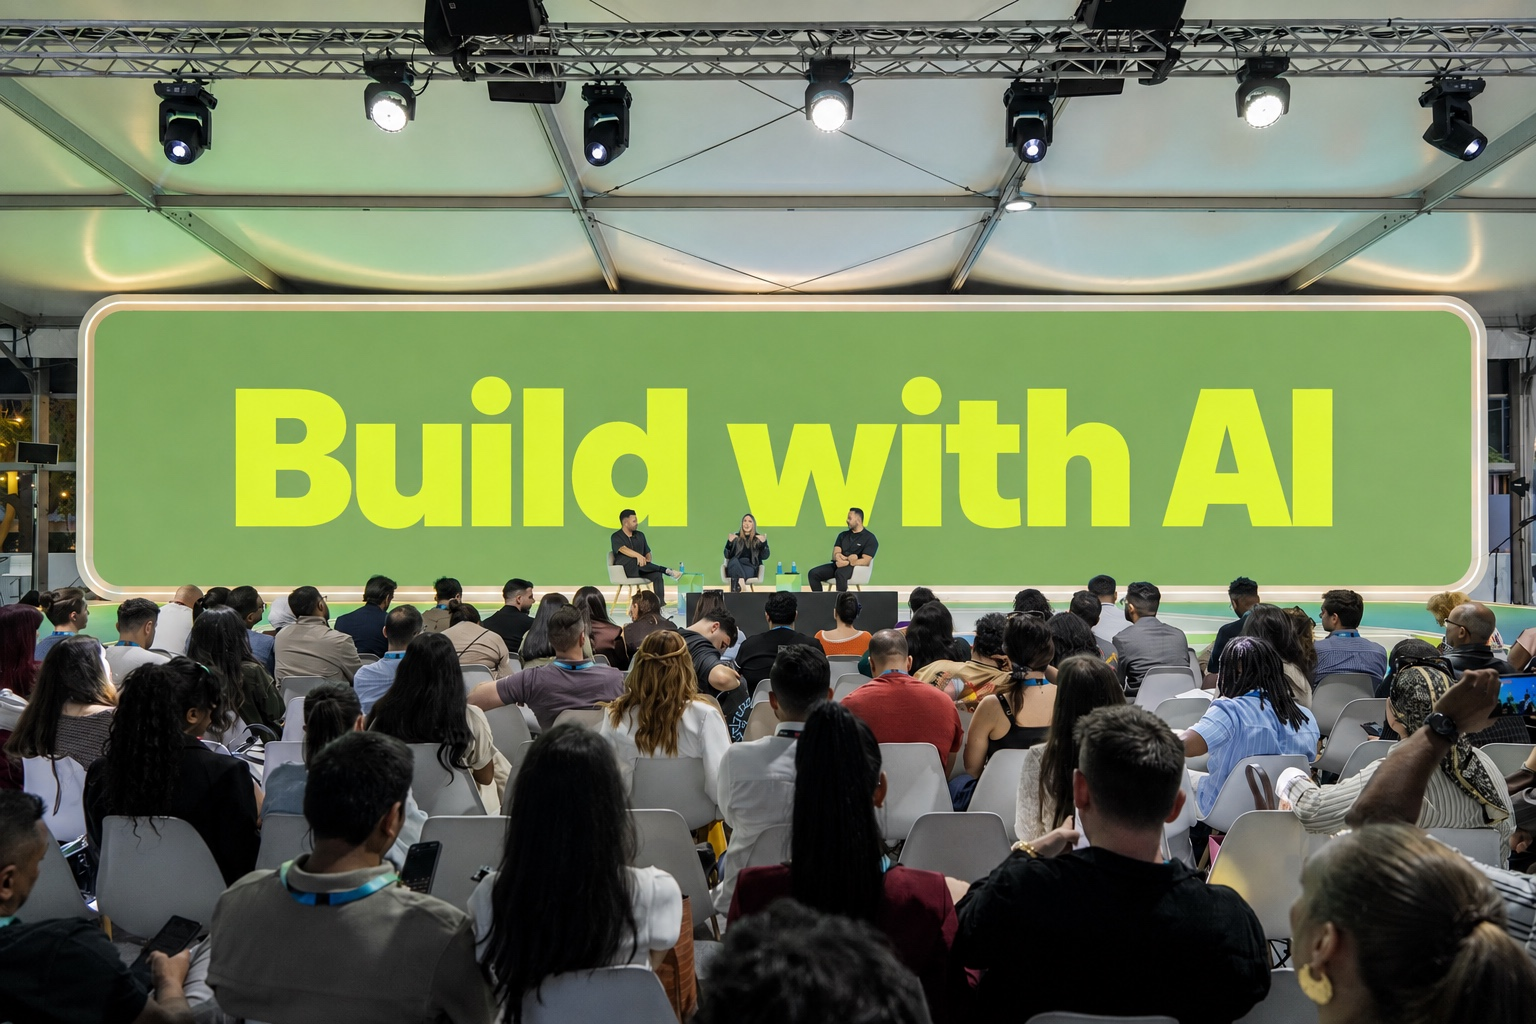
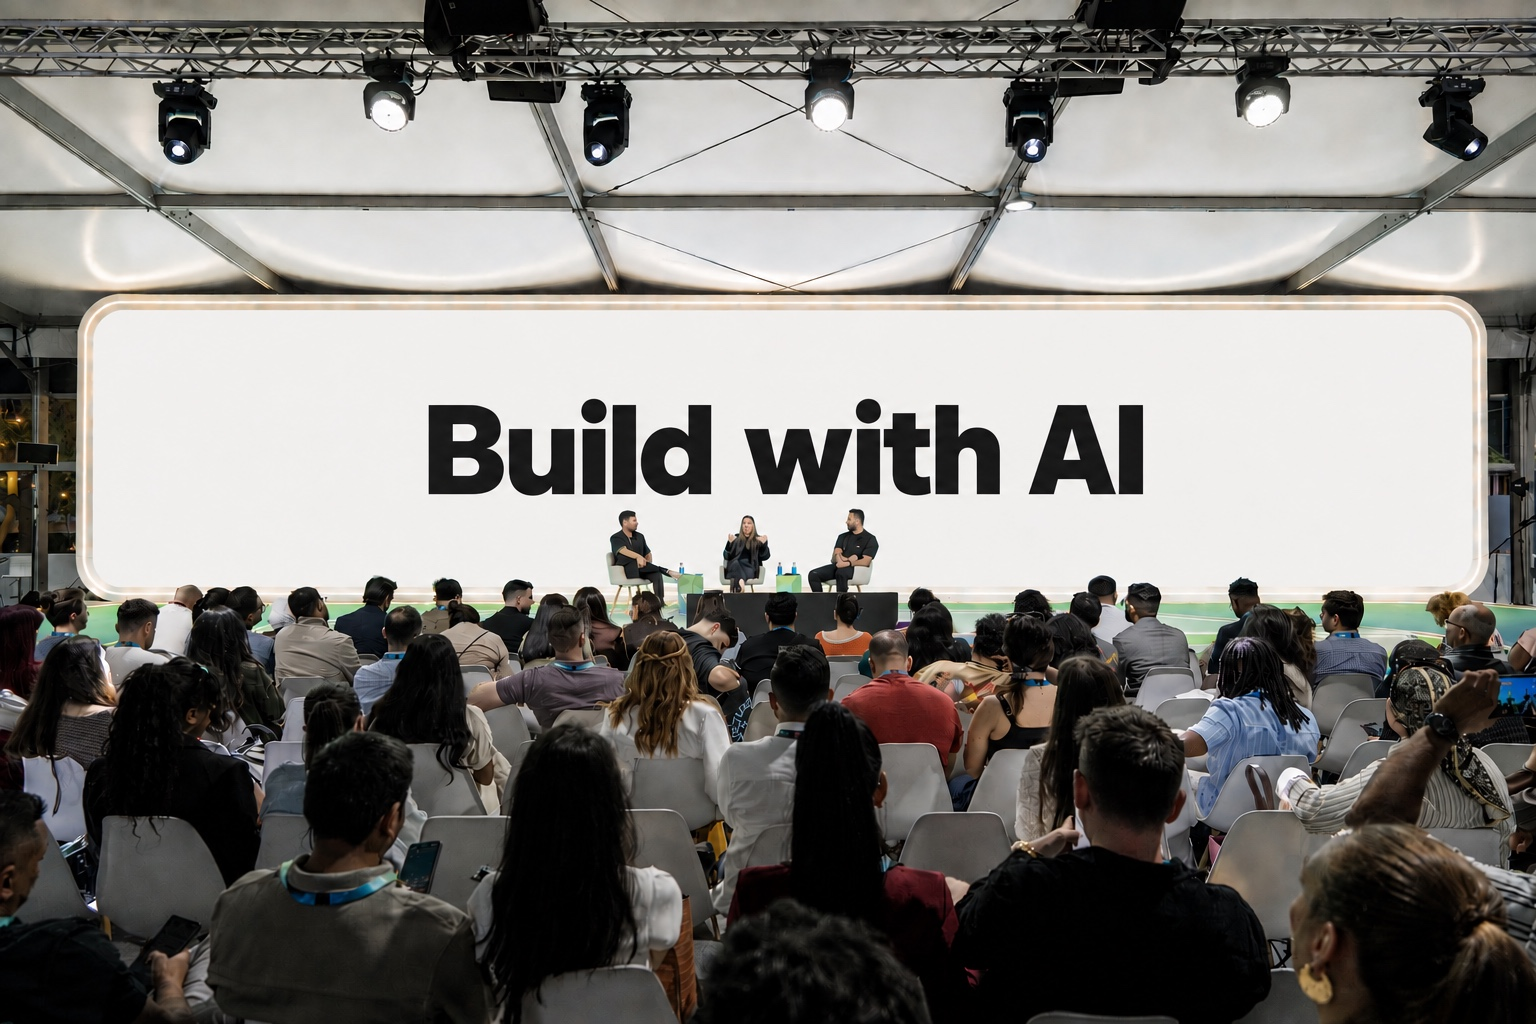
Refresh epoch hero image

diff --git a/index.html b/index.html
@@ -42,7 +42,7 @@
         <span class="hero__badge" style="font-family:var(--disp);font-weight:800;font-size:30px;letter-spacing:-.03em" aria-hidden="true">26</span>
       </h1>
       <figure class="hero__shot">
-        <img src="img/hero-room.jpg?v=20260819-2" alt="A panel discussing how to build with AI before a full conference audience">
+        <img src="img/hero-room.jpg?v=20260819-3" alt="A panel discussing how to build with AI before a full conference audience">
       </figure>
     </div>
 
